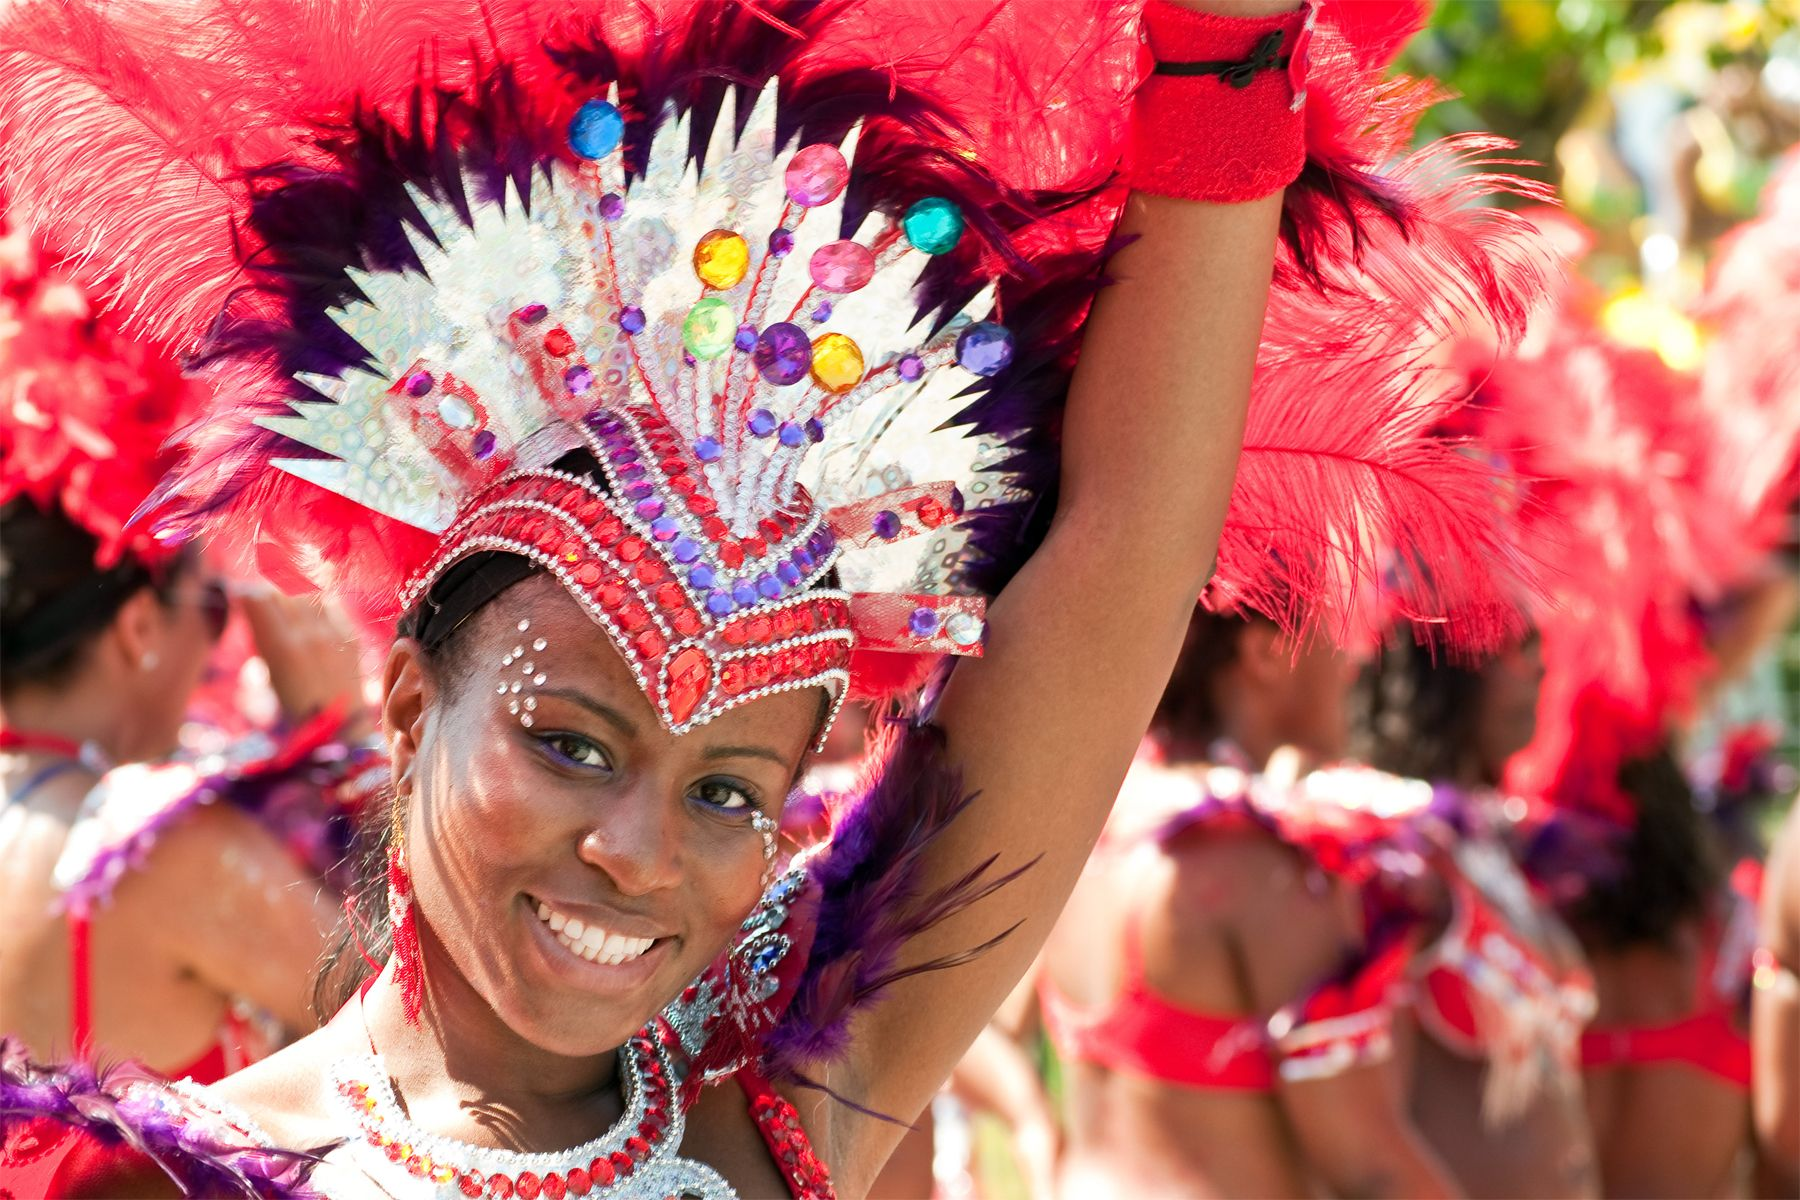
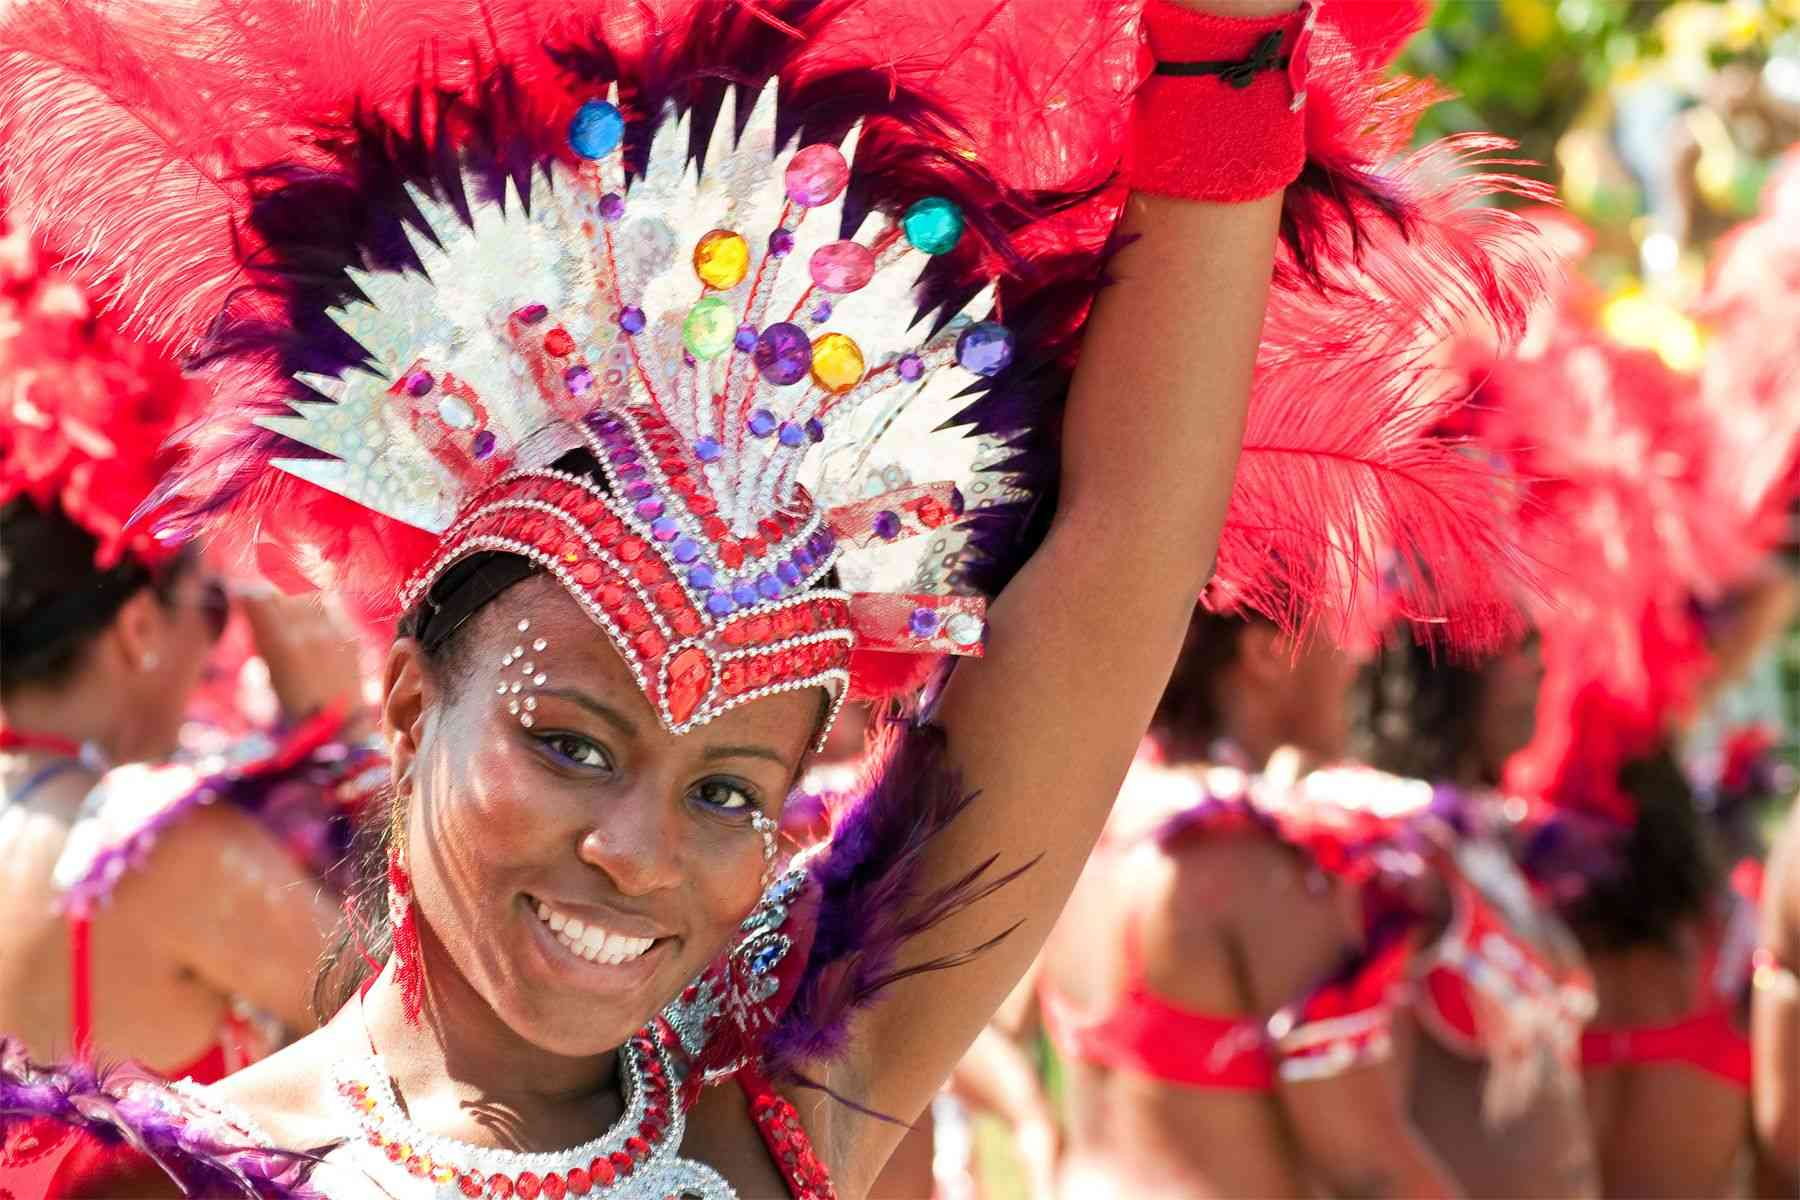
Recompressed the hero section images

diff --git a/src/assets/css/components/home/hero-section.css b/src/assets/css/components/home/hero-section.css
@@ -28,7 +28,7 @@
       background-position: center;
    }
    75%{
-      background: url('../images/cover-4.webp') no-repeat;
+      background: url('../images/cover-4.jpg') no-repeat;
       background-size: cover;
       background-position: center;
    }
